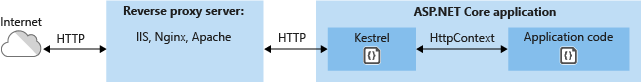
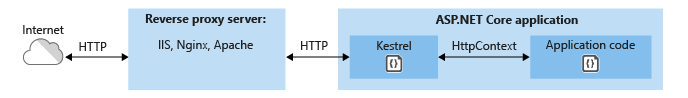
Minor edit

diff --git a/_posts/articles/2018-09-12-aspnetcore-on-iis.md b/_posts/articles/2018-09-12-aspnetcore-on-iis.md
@@ -16,9 +16,12 @@ We'll not cover anything about .NET Core development in general, or about IIS as
 
 If you are not looking for hosting your application on Windows IIS, head over to this [official documentation](https://docs.microsoft.com/en-us/aspnet/core/host-and-deploy/?view=aspnetcore-2.1&tabs=aspnetcore2x) to learn how to host it on `Linux`, `MacOS`, `Docker` or `Azure`. If you want to learn about .NET Core, check out this **[series on .NET Core development](/articles/dotnet-core-2.0/)**.
 
+**TL;DR** If you already know how to host a website on IIS and the deployment options for .NET Core applications (FDD & SCD), the most important step for hosting ASP.NET Core applications on IIS server is that, you'll need to install the **`ASP.NET Core IIS Module`**.
+{: .notice--success}
+
 Just before we jump in, one might be wondering, when ASP.NET Core application already comes with its own web server [Kestrel](https://docs.microsoft.com/en-us/aspnet/core/fundamentals/servers/?view=aspnetcore-2.1&tabs=aspnetcore2x), why would anyone host it on IIS! Kestrel is very lean (and fast), and does only what is required, i.e. serve a HTTP request with a response. On the other hand, mature web servers like `IIS`, `Nginx`, `Apache` etc. have much more functionality built into them. So, it is always advised to use Kestrel behind a full web server as _reverse proxy_, for production use. That means, the web server will receive the request from internet, and forward it to Kestrel after some general preliminary work and send the response back from Kestrel.
 
-![Image](/images/posts/misc/kestrel-to-internet2.png)
+![Image](/images/posts/misc/kestrel-to-internet.png)
 
 With a full web server, viz. IIS, you can do stuffs that are not possible with Kestrel. Some examples are - running multiple apps on same server sharing same port (e.g. mysite.com and othersite.com both listening to HTTP port 80), public domain & SSL certificate management, security & authentication, request limiting, caching, URL re-writing etc.
 
